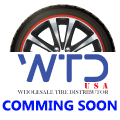
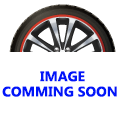
index page changes

Changed region(s): [[0.0, 0.45, 0.975, 0.925], [0.125, 0.45, 0.225, 0.55]]

diff --git a/index.php b/index.php
@@ -785,13 +785,115 @@ if (isset($_GET['error'])) {
              <div data-v-0d6be6a8 class=cards-container>
                  <a data-v-0b309813 data-v-0d6be6a8 href=# class=component-ServicesCard>
                      <div data-v-0b309813 class=card-container>
-                         <div data-v-0b309813 class=background-para><div data-v-0b309813 class=background-image style="background-image:url(images/dealer_programe.jpg)"></div></div> <div data-v-0b309813 class=overlay></div> <div data-v-0b309813 class=title-overlay-container><div data-v-0b309813 class="title webkit-font">Dealer Programs </div></div> <svg data-v-0b309813 xmlns=http://www.w3.org/2000/svg width=47 height=49 viewBox="0 0 47 49" class=red style=transform:translate3d(0,98.0614%,0)><path fill=#FF4D4D fill-rule=evenodd d="M46.758 0L0 48.479h46.758z"></path></svg></div> <h4 data-v-0b309813 class="body-text webkit-font">We give you to deal with the best products as an independent dealer to build your brand selling the tires, wheels and suppliers your consumers demand. Our deal with the best manufacturers. You can get the offers in volume savings, business and marketing support and best selection of products, making an exclusive dealer programs.
- <div data-v-49614bf8 data-v-0b309813 class="component-ArrowLink small white"><div data-v-49614bf8 class=link><div data-v-49614bf8 class=label>Read More</div> <div data-v-49614bf8 class=arrow-container><svg data-v-49614bf8 xmlns=http://www.w3.org/2000/svg viewBox="0 0 90 90" class=triangle><path fill=red fill-rule=evenodd d="M90 45L0 90V0z"></path></svg></div></div></div></h4> </a><a data-v-0b309813 data-v-0d6be6a8 href=service_offering.html class=component-ServicesCard><div data-v-0b309813 class=card-container><div data-v-0b309813 class=background-para><div data-v-0b309813 class=background-image style="background-image:url(images/digital_tool_bg.jpeg)"></div></div> <div data-v-0b309813 class=overlay></div> <div data-v-0b309813 class=title-overlay-container><div data-v-0b309813 class="title webkit-font">Digital Tools</div></div> <svg data-v-0b309813 xmlns=http://www.w3.org/2000/svg width=47 height=49 viewBox="0 0 47 49" class=red style=transform:translate3d(0,98.0614%,0)><path fill=#FF4D4D fill-rule=evenodd d="M46.758 0L0 48.479h46.758z"></path></svg></div> <h4 data-v-0b309813 class="body-text webkit-font">Check the power of WTD by online stream your business operations you can get the access our selections current availability and best prices 24/7.
- <div data-v-49614bf8 data-v-0b309813 class="component-ArrowLink small white"><div data-v-49614bf8 class=link><div data-v-49614bf8 class=label>Read More</div> <div data-v-49614bf8 class=arrow-container><svg data-v-49614bf8 xmlns=http://www.w3.org/2000/svg viewBox="0 0 90 90" class=triangle><path fill=red fill-rule=evenodd d="M90 45L0 90V0z"></path></svg></div></div></div></h4> </a><a data-v-0b309813 data-v-0d6be6a8 href=service_offering.html class=component-ServicesCard><div data-v-0b309813 class=card-container><div data-v-0b309813 class=background-para><div data-v-0b309813 class=background-image style="background-image:url(images/tire_pros.jpg)"></div></div> <div data-v-0b309813 class=overlay></div> <div data-v-0b309813 class=title-overlay-container><div data-v-0b309813 class="title webkit-font">The benefits</div></div> <svg data-v-0b309813 xmlns=http://www.w3.org/2000/svg width=47 height=49 viewBox="0 0 47 49" class=red style=transform:translate3d(0,98.0614%,0)><path fill=#FF4D4D fill-rule=evenodd d="M46.758 0L0 48.479h46.758z"></path></svg></div> <h4 data-v-0b309813 class="body-text webkit-font">
- Join the best selling brand in the Ameriaca’s largest and best selling brands with independent dealers. When you will be the member of WTD you will be find out the best benefits from our services and profitabilty .
- <div data-v-49614bf8 data-v-0b309813 class="component-ArrowLink small white"><div data-v-49614bf8 class=link><div data-v-49614bf8 class=label>Read More</div> <div data-v-49614bf8 class=arrow-container><svg data-v-49614bf8 xmlns=http://www.w3.org/2000/svg viewBox="0 0 90 90" class=triangle><path fill=red fill-rule=evenodd d="M90 45L0 90V0z"></path></svg></div></div></div></h4> </a><a data-v-0b309813 data-v-0d6be6a8 href=service_offering.html class=component-ServicesCard><div data-v-0b309813 class=card-container><div data-v-0b309813 class=background-para><div data-v-0b309813 class=background-image style="background-image:url(images/tire_buyer_bg.jpg)"></div></div> <div data-v-0b309813 class=overlay></div> <div data-v-0b309813 class=title-overlay-container><div data-v-0b309813 class="title webkit-font">Prefered buyers </div></div> <svg data-v-0b309813 xmlns=http://www.w3.org/2000/svg width=47 height=49 viewBox="0 0 47 49" class=red style=transform:translate3d(0,98.0614%,0)><path fill=#FF4D4D fill-rule=evenodd d="M46.758 0L0 48.479h46.758z"></path></svg></div> <h4 data-v-0b309813 class="body-text webkit-font">
- When you will be the part of WTD as a prefered dealer than you will also be te part of TireBuyer installer. when you will be the part of WTD online purchases will be delivered to you for installation. Giving you brand new customers and a new means to expand you business as per you like.
- <div data-v-49614bf8 data-v-0b309813 class="component-ArrowLink small white"><div data-v-49614bf8 class=link><div data-v-49614bf8 class=label>Read More</div> <div data-v-49614bf8 class=arrow-container><svg data-v-49614bf8 xmlns=http://www.w3.org/2000/svg viewBox="0 0 90 90" class=triangle><path fill=red fill-rule=evenodd d="M90 45L0 90V0z"></path></svg></div></div></div></h4> </a></div></div></div> 
+                         <div data-v-0b309813 class=background-para>
+                            <div data-v-0b309813 class=background-image style="background-image:url(images/dealer_programe.jpg)">
+                            </div>
+                        </div> 
+                        <div data-v-0b309813 class=overlay></div> 
+                        <div data-v-0b309813 class=title-overlay-container>
+                            <div data-v-0b309813 class="title webkit-font">Dealer Programs </div>
+                        </div> 
+                        <svg data-v-0b309813 xmlns=http://www.w3.org/2000/svg width=47 height=49 viewBox="0 0 47 49" class=red style=transform:translate3d(0,98.0614%,0)>
+                            <path fill=#FF4D4D fill-rule=evenodd d="M46.758 0L0 48.479h46.758z"></path>
+                        </svg>
+                    </div> 
+                    <h4 data-v-0b309813 class="body-text webkit-font">We give you to deal with the best products as an independent dealer to build your brand selling the tires, wheels and suppliers your consumers demand. Our deal with the best manufacturers. You can get the offers in volume savings, business and marketing support and best selection of products, making an exclusive dealer programs.
+                        <div data-v-49614bf8 data-v-0b309813 class="component-ArrowLink small white">
+                            <div data-v-49614bf8 class=link>
+                                <div data-v-49614bf8 class=label>Read More</div> 
+                                <div data-v-49614bf8 class=arrow-container>
+                                    <svg data-v-49614bf8 xmlns=http://www.w3.org/2000/svg viewBox="0 0 90 90" class=triangle>
+                                        <path fill=red fill-rule=evenodd d="M90 45L0 90V0z"></path>
+                                    </svg>
+                                </div>
+                            </div>
+                        </div>
+                    </h4> 
+                </a>
+                <a data-v-0b309813 data-v-0d6be6a8 href=service_offering.html class=component-ServicesCard>
+                    <div data-v-0b309813 class=card-container>
+                        <div data-v-0b309813 class=background-para>
+                            <div data-v-0b309813 class=background-image style="background-image:url(images/digital_tool_bg.jpeg)"></div>
+                        </div> 
+                        <div data-v-0b309813 class=overlay></div> 
+                        <div data-v-0b309813 class=title-overlay-container>
+                            <div data-v-0b309813 class="title webkit-font">Digital Tools</div>
+                        </div> 
+                        <svg data-v-0b309813 xmlns=http://www.w3.org/2000/svg width=47 height=49 viewBox="0 0 47 49" class=red style=transform:translate3d(0,98.0614%,0)>
+                            <path fill=#FF4D4D fill-rule=evenodd d="M46.758 0L0 48.479h46.758z"></path>
+                        </svg>
+                    </div> 
+                    <h4 data-v-0b309813 class="body-text webkit-font">Check the power of WTD by online stream your business operations you can get the access our selections current availability and best prices 24/7.
+                    <div data-v-49614bf8 data-v-0b309813 class="component-ArrowLink small white">
+                        <div data-v-49614bf8 class=link>
+                            <div data-v-49614bf8 class=label>Read More</div> 
+                            <div data-v-49614bf8 class=arrow-container>
+                                <svg data-v-49614bf8 xmlns=http://www.w3.org/2000/svg viewBox="0 0 90 90" class=triangle>
+                                    <path fill=red fill-rule=evenodd d="M90 45L0 90V0z"></path>
+                                </svg>
+                            </div>
+                        </div>
+                    </div>
+                </h4> 
+            </a>
+            <a data-v-0b309813 data-v-0d6be6a8 href=service_offering.html class=component-ServicesCard>
+                <div data-v-0b309813 class=card-container>
+                    <div data-v-0b309813 class=background-para>
+                        <div data-v-0b309813 class=background-image style="background-image:url(images/tire_pros.jpg)"></div>
+                    </div> 
+                    <div data-v-0b309813 class=overlay></div> 
+                    <div data-v-0b309813 class=title-overlay-container>
+                        <div data-v-0b309813 class="title webkit-font">The benefits</div>
+                    </div> 
+                    <svg data-v-0b309813 xmlns=http://www.w3.org/2000/svg width=47 height=49 viewBox="0 0 47 49" class=red style=transform:translate3d(0,98.0614%,0)>
+                        <path fill=#FF4D4D fill-rule=evenodd d="M46.758 0L0 48.479h46.758z"></path>
+                    </svg>
+                </div> 
+                <h4 data-v-0b309813 class="body-text webkit-font">
+                    Join the best selling brand in the Ameriaca’s largest and best selling brands with independent dealers. When you will be the member of WTD you will be find out the best benefits from our services and profitabilty .
+                    <div data-v-49614bf8 data-v-0b309813 class="component-ArrowLink small white">
+                        <div data-v-49614bf8 class=link>
+                            <div data-v-49614bf8 class=label>Read More</div> 
+                            <div data-v-49614bf8 class=arrow-container>
+                                <svg data-v-49614bf8 xmlns=http://www.w3.org/2000/svg viewBox="0 0 90 90" class=triangle>
+                                    <path fill=red fill-rule=evenodd d="M90 45L0 90V0z"></path>
+                                </svg>
+                            </div>
+                        </div>
+                    </div>
+                </h4> 
+            </a>
+            <a data-v-0b309813 data-v-0d6be6a8 href=service_offering.html class=component-ServicesCard>
+                <div data-v-0b309813 class=card-container>
+                    <div data-v-0b309813 class=background-para>
+                        <div data-v-0b309813 class=background-image style="background-image:url(images/tire_buyer_bg.jpg)"></div>
+                    </div> 
+                    <div data-v-0b309813 class=overlay></div> 
+                    <div data-v-0b309813 class=title-overlay-container>
+                        <div data-v-0b309813 class="title webkit-font">Prefered buyers </div>
+                    </div> 
+                    <svg data-v-0b309813 xmlns=http://www.w3.org/2000/svg width=47 height=49 viewBox="0 0 47 49" class=red style=transform:translate3d(0,98.0614%,0)>
+                        <path fill=#FF4D4D fill-rule=evenodd d="M46.758 0L0 48.479h46.758z"></path>
+                    </svg>
+                </div> 
+                <h4 data-v-0b309813 class="body-text webkit-font">
+                    When you will be the part of WTD as a prefered dealer than you will also be te part of TireBuyer installer. when you will be the part of WTD online purchases will be delivered to you for installation. Giving you brand new customers and a new means to expand you business as per you like.
+                    <div data-v-49614bf8 data-v-0b309813 class="component-ArrowLink small white">
+                        <div data-v-49614bf8 class=link>
+                            <div data-v-49614bf8 class=label>Read More</div> 
+                            <div data-v-49614bf8 class=arrow-container>
+                                <svg data-v-49614bf8 xmlns=http://www.w3.org/2000/svg viewBox="0 0 90 90" class=triangle>
+                                    <path fill=red fill-rule=evenodd d="M90 45L0 90V0z"></path>
+                                </svg>
+                            </div>
+                        </div>
+                    </div>
+                </h4> 
+            </a>
+        </div>
+    </div>
+</div>
+<?php //include("app_store.php")?> 
  <div data-v-52670f54 data-v-5ff8ac3c class=component-NewAtAtd>
  	<div data-v-52670f54 class=common-center-container>
  		<h3 data-v-52670f54 class=heading>NEWS AT WTD</h3> 
@@ -801,19 +903,19 @@ if (isset($_GET['error'])) {
  				<div data-v-55126885 class=card-container>
  					<div data-v-55126885 class=background-image-container>
  						<div data-v-55126885 class=background-image-para>
- 							<div data-v-55126885 class=background-image style=background-image:url(images/ware_house.jpg)></div>
+ 							<div data-v-55126885 class=background-image style=background-image:url(images/play-store-&-apple-store-banner.png)></div>
  						</div>
  					</div> 
  					<div data-v-55126885 class=title-content-container>
- 						<h5 data-v-55126885 class=title>WTD Cuts the Ribbon at Pennsylvania’s New Million-Square-Foot Mixing Warehouse</h5> <h5 data-v-55126885 class=content>WTD, Inc. (WTD) today celebrated the opening of its new one million-square-foot Pocono Mixing Warehouse in Blakeslee, Pennsylvania.</h5> 
+ 						<h5 data-v-55126885 class=title>Find Us </h5> <h5 data-v-55126885 class=content>On Play Store As WTDUSA</h5> 
  						<div data-v-55126885 class=button-container>
  							<div data-v-49614bf8 data-v-55126885 class="component-ArrowLink small">
  								<div data-v-49614bf8 class=link>
- 									<div data-v-49614bf8 class=label>Read More</div> 
+ 									<div data-v-49614bf8 class=label></div> 
  									<div data-v-49614bf8 class=arrow-container>
- 										<svg data-v-49614bf8 xmlns=http://www.w3.org/2000/svg viewBox="0 0 90 90" class=triangle>
+ 										<!-- <svg data-v-49614bf8 xmlns=http://www.w3.org/2000/svg viewBox="0 0 90 90" class=triangle>
  											<path fill=red fill-rule=evenodd d="M90 45L0 90V0z"></path>
- 										</svg>
+ 										</svg> -->
  									</div>
  								</div>
  							</div>
@@ -821,7 +923,32 @@ if (isset($_GET['error'])) {
  					</div>
  				</div>
  			</a>
- 			<a data-v-55126885 data-v-52670f54 href=# class=component-NewCard>
+            <a data-v-55126885 data-v-52670f54 href=# class=component-NewCard>
+            <div data-v-55126885 class=card-container>
+                <div data-v-55126885 class=background-image-container>
+                    <div data-v-55126885 class=background-image-para>
+                        <div data-v-55126885 class=background-image style=background-image:url(images/play-store-&-apple-store-banner-1.png)></div>
+                    </div>
+                </div> 
+                <div data-v-55126885 class=title-content-container>
+                    <h5 data-v-55126885 class=title>Find Us </h5> 
+                    <h5 data-v-55126885 class=content>On Apple Store As WTDUSA</h5> 
+                    <div data-v-55126885 class=button-container>
+                        <div data-v-49614bf8 data-v-55126885 class="component-ArrowLink small">
+                            <div data-v-49614bf8 class=link>
+                                <div data-v-49614bf8 class=label></div> 
+                                    <div data-v-49614bf8 class=arrow-container>
+                                        <!-- <svg data-v-49614bf8 xmlns=http://www.w3.org/2000/svg viewBox="0 0 90 90" class=triangle>
+                                            <path fill=red fill-rule=evenodd d="M90 45L0 90V0z"></path>
+                                        </svg> -->
+                                    </div>
+                                </div>
+                            </div>
+                        </div>
+                    </div>
+                </div>
+            </a>
+ 			<!-- <a data-v-55126885 data-v-52670f54 href=# class=component-NewCard>
  			<div data-v-55126885 class=card-container>
  				<div data-v-55126885 class=background-image-container>
  					<div data-v-55126885 class=background-image-para>
@@ -845,8 +972,8 @@ if (isset($_GET['error'])) {
  						</div>
  					</div>
  				</div>
- 			</a>
- 			<a data-v-55126885 data-v-52670f54 href=# class=component-NewCard>
+ 			</a> -->
+ 			<!-- <a data-v-55126885 data-v-52670f54 href=# class=component-NewCard>
  				<div data-v-55126885 class=card-container>
  					<div data-v-55126885 class=background-image-container>
  						<div data-v-55126885 class=background-image-para>
@@ -870,7 +997,31 @@ if (isset($_GET['error'])) {
  						</div>
  					</div>
  				</div>
- 			</a>
+ 			</a> -->
+            <a data-v-55126885 data-v-52670f54 href=# class=component-NewCard>
+                <div data-v-55126885 class=card-container>
+                    <div data-v-55126885 class=background-image-container>
+                        <div data-v-55126885 class=background-image-para>
+                            <div data-v-55126885 class=background-image style=background-image:url(images/warehouse.jpg)></div>
+                        </div>
+                    </div> 
+                    <div data-v-55126885 class=title-content-container>
+                        <h5 data-v-55126885 class=title>WTD Warehouse Extension Comming Soon</h5> <h5 data-v-55126885 class=content>WTD Warehouse Extension</h5> 
+                        <div data-v-55126885 class=button-container>
+                            <div data-v-49614bf8 data-v-55126885 class="component-ArrowLink small">
+                                <div data-v-49614bf8 class=link>
+                                    <div data-v-49614bf8 class=label></div> 
+                                    <div data-v-49614bf8 class=arrow-container>
+                                        <!-- <svg data-v-49614bf8 xmlns=http://www.w3.org/2000/svg viewBox="0 0 90 90" class=triangle>
+                                            <path fill=red fill-rule=evenodd d="M90 45L0 90V0z"></path>
+                                        </svg> -->
+                                    </div>
+                                </div>
+                            </div>
+                        </div>
+                    </div>
+                </div>
+            </a>
  		</div>
  	</div>
  </div>

diff --git a/app_store.php b/app_store.php
@@ -1,0 +1,15 @@
+<div data-v-0d6be6a8 data-v-5ff8ac3c id=service-offering class=component-ServicesOffering style=background-image:url(images/action.jpg)>
+     <div data-v-0d6be6a8 class=common-center-container align="center">
+         <h2 data-v-0d6be6a8 class="heading webkit-font">Find Us On Apple Store & Play Store As WTDUSA</h2>
+         <div data-v-0d6be6a8 class=cards-container>
+            <div class="row" style="margin-top: 10%;">
+                <div class="col-md-6" align="right">
+                    <img src="images/Google_play.png" style="width: 71%;padding-top: 14px;">
+                </div>
+                <div class="col-md-6" align="left">
+                    <img src="images/AppStore.png" style="width: 70%;">
+                </div>
+            </div> 
+        </div>
+    </div>
+</div> 
